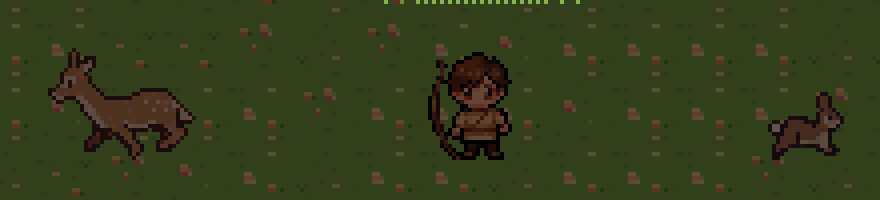
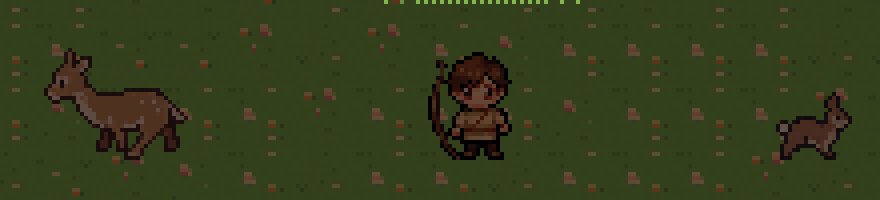
M11 생물 그림 검토 반영: 생물의 시계 = 무리의 시계(세션의 걷기 프레임·고리 깜박임이 늦게 나온 생물도 호스트와 같음), 시체를 드롭 위로(정렬 자리 = 발 칸 아래 변 + 1px), 시트 미리 읽기(CombatView.setup), 빈 시험이던 시체 표시와 빠진 시험(번쩍임·표시 간격·가운데 맞춤·wild_net의 시계), 히트 상자·올가미·막대·걸음 빠르기 README, 다시 찍은 그림 셋 — 검토 지적을 확인해 고치려고 (임시값·전송 형식 v13·골든 해시 그대로)

Changed region(s): [[0.0307, 0.24, 0.2455, 0.81], [0.8591, 0.45, 0.9818, 0.81]]

diff --git a/game/README.md b/game/README.md
@@ -34,7 +34,7 @@
 그 위에 **M11b "희귀 구역 · 포획 · 컬렉션"**(혼자 할 때 먼저. 세션에는 없고(M11c에서 켠다) 전송 형식 v12·월드 해시 그대로)를 더했다: ● game-concept §2·§3·§4(월드마다 독립, 달성 단위 자원·생물·업적, 베네핏 범위 클래스·전체·월드, 희귀 생물 포획·사냥은 아처만, 희귀 재료 → 특정 장비), ○ gameplay-design §3.4(포획)·§3.5(첫 획득 해금). 시드로 정하는 희귀 구역 하나(타일을 고치지 않는다), 그 안에서만 사는 희귀 생물 셋, 아처가 아니면 아무 일도 없는 타격, 올가미로 잡기, 항목 8개와 베네핏 셋(아처 화살 +10%, 전원 방어 +1, 상인 재고 7분), 희귀 재료와 희귀 갑옷, 컬렉션 창(K). 그림은 모두 코드 그림 자리 표시다. [M11b: 희귀 구역 · 포획 · 컬렉션](#m11b-희귀-구역--포획--컬렉션).
 그 위에 **M11c "세션의 사냥 · 포획 · 컬렉션"**을 더했다: M11a·M11b가 혼자 할 때 더한 것을 세션에서 모두 호스트가 정한다(● game-concept §13 호스트 권한). 호스트의 지상 아레나가 무리를 쥐고(자기 난수열, 게임 시계) 모든 공격 길이 호스트 상태로 생물을 친다. 마지막 타격의 클래스가 드롭을 정하고(보통 드롭 편집) 호스트의 올가미 판정은 새 요청 **CAPTURE**(9B: 생물 번호, 호스트가 클래스·올가미·번호·도달·HP·상태를 자기 상태로 검사)다. 생물은 새 묶음(10B 하나, 클라이언트마다 **시야 상자 안의 것만**, 바뀔 때만, 멈추면 키프레임 하나)으로 가서 이단처럼 100ms 뒤를 그리고, 컬렉션은 모든 클라이언트에게 절대값 메시지(6B), 구역과 컬렉션은 지상 스냅샷과 내용 해시에 든다(있을 때만: 골든 해시 그대로). 베네핏은 호스트의 숫자다. 클라이언트는 자기 몸 동작만 예측한다. 전송 형식 **v13**, v12와는 양쪽 방향으로 `refused: version`. 실제 세션 `hunt`·`snare`·`wilds`·`herd`, 한 프로세스 `test_net_wild.gd`, 창 검사 `wild_net`. 자세한 것은 아래 "M11c: 세션의 사냥 · 포획 · 컬렉션".
 그 위에 **M11 검토 반영**(2026-11-07, 아래 "검토 반영 (M11)")을 더했다: 제단이 산 생물 위에 놓이지 않는다(혼자 할 때와 호스트, 클릭·유령·내려놓기. 아니면 그 생물이 발자국 안에 영영 갇혔다), 새 빛에서 걸어 나가는 생물이 오염 칸 위에 멈추지 않는다, 시야 상자가 맵 끝에서 카메라처럼 멈춘다(16:9에서도 화면 안의 생물이 안 보이던 것), 떠난 사람의 슬롯을 받은 사람에게 올가미 줄이 가지 않는다, 번호가 돌아가도 산 생물을 건너뛴다, 스폰이 횃불·주머니 칸을 피한다. 통과만 하던 시험을 고치고 빠진 시험을 더했다. 전송 형식 v13·월드 해시 그대로.
-그 위에 **M11 생물 그림**(2026-11-08, 03-pixel PixelLab 16차 시트로, 브랜치 `art/m11-creatures`)을 더했다: 코드로 그린 생물 다섯(글자 지도)을 `art/creatures/<종류>_v02_rotations.png`·`_walk.png`(= `assets/concept/03-pixel/`의 같은 이름, 서 있음 남·동·북·서 + 걷기 6프레임 × 남·동·북, 서 = 동 반전, 채택 후보)로 바꾸고, 달아날 때 걸음을 빠르게(새 임시값 "M11 생물 그림 달아날 때 걸음"), HP 막대·표시를 종류의 가장 큰 그림 위로, 시체를 남쪽 그림을 눕힌 모습으로, 컬렉션 창의 칸을 40px로 했다. 그림뿐이라 시뮬레이션·히트 상자 등 임시값·월드 데이터·전송 형식 v13·골든 해시·스냅샷 그대로(히트 상자가 그림과 안 맞는 것은 사람 확인). 아래 "M11 생물 그림"
+그 위에 **M11 생물 그림**(2026-11-08, 03-pixel PixelLab 16차 시트로, 브랜치 `art/m11-creatures`)을 더했다: 코드로 그린 생물 다섯(글자 지도)을 `art/creatures/<종류>_v02_rotations.png`·`_walk.png`(= `assets/concept/03-pixel/`의 같은 이름, 서 있음 남·동·북·서 + 걷기 6프레임 × 남·동·북, 서 = 동 반전, 채택 후보)로 바꾸고, 달아날 때 걸음을 빠르게(새 임시값 "M11 생물 그림 달아날 때 걸음"), HP 막대·표시를 종류의 가장 큰 그림 위로, 시체를 남쪽 그림을 눕힌 모습으로, 컬렉션 창의 칸을 40px로 했다. 그림뿐이라 시뮬레이션·히트 상자 등 임시값·월드 데이터·전송 형식 v13·골든 해시·스냅샷 그대로(히트 상자가 그림과 안 맞는 것은 사람 확인). 아래 "M11 생물 그림". 그 위에 **M11 생물 그림 검토 반영**(2026-11-08, 아래 "검토 반영 (M11 생물 그림)")을 더했다: 생물의 시계가 무리의 시계다(세션 호스트에서는 호스트 틱이라 늦게 나온 생물도 호스트와 클라이언트가 같은 걷기 프레임·고리 깜박임을 그린다), 시체가 자기 드롭 위에 눕는다(정렬 자리를 발 칸의 아래 변 + 1px로), 시트를 `CombatView`가 무리 있는 맵에 놓일 때 읽는다(첫 생물이 나오는 프레임의 멈춤), 빈 시험이던 "시체에 표시 없음"과 빠진 시험(번쩍임·표시 간격·가운데 맞춤), 히트 상자·올가미·막대·걸음 빠르기의 README 문장, 03-pixel 기록의 숫자와 남은 흠. 전송 형식 v13·골든 해시 그대로
 
 기준 문서: `docs/game-concept.md` §2 §3 §7 §9.3 §9.7 §10 §11 §12 §13, `docs/gameplay-design.md` §1 §2.1 §2.2 §2.3 §2.4 §2.5 §2.6 §3.0 §3.1 §3.2 §3.4 §3.5 §3.8 §5 (M4b: §2.1 실시간·에임형, §2.6 사망 흐름, §3.0 팔라딘 줄, §3.1 ○ "타일 동기화가 던전 안 인원끼리만", game-concept §13 호스트 권한. M6a: §1 ○ "Tab 인벤토리·제작", §2.2 ? 스킬 킷과 ○ 약초사 정체성 스킬 = 약제 투척, §2.4 ○ 상태이상, §3.0 ● R11 약초사 줄, §3.4 ● 상급, §3.5 ○ 제작·해금, game-concept §9.7 ○ 조제대, §12 ● 작물 셋 R28. M6b: game-concept §13 ● 호스트 권한, §2.6 ● 소생(던진 회복과의 관계), 나머지는 M6a와 같음), `docs/concept-art-brief.md` §4 §5.6 §5.7(M6a: ● R29 물약 색), `assets/concept/03-pixel/prompts.md`(8~12차, 몸 동작. M4a: 8차 피격·사망, 13차 이단과 "M4에 넘길 것"), `assets/concept/04-env/prompts.md`("본 제작", 채집물, M3a: 던전 바닥↔벽 타일, 광맥, 벽 금, 던전 입구, 이단의 제단, 소품. M6a: 조제대 v05, 작은 것 묶음 `items_v04_strip`의 물약).
 M5a 기준 문서: `docs/game-concept.md` §9.3(● 제단 = 빛·안전 반경, 위치·이동 자유), §9.7(○ 농사 줄기, 밭은 빛 안에서만, 시듦과 되살아남, 밭은 남음, R37 슬라이스 줄), §10(톤 이원화), §11, §12(● 작물 셋 R28, ● R37 누가 무엇을 심나), `docs/gameplay-design.md` §1(○ 키), §2.6, §3.0(● R11 약초사·팔라딘 줄), §3.4(● 상급), §3.7(○ 정화: M5b), §3.8(○ 농사, ● R37 줄), `docs/concept-art-brief.md` §5.7(● R28 작물, ● R29 시든 작물·물 준 흙 칸별 덧칠·독초 색), `assets/concept/04-env/prompts.md`(1차 시험 손질: 흙 v03·물 준 흙·흙 변형, `crops_v03`, 씨앗 봉투 #18~#20).
@@ -86,7 +86,7 @@ timeout 300 "$GODOT" --headless --path game --import < /dev/null
 timeout 1800 "$GODOT" --headless --path game --script res://tests/run_all.gd < /dev/null
 ```
 
-- 출력: 첫 줄 `EVENSONG_TESTS start: 27 file(s) in res://tests, ports 24621-24640`(M6a: 19, M6b: 21, M5a: 22, M5b: 24, M5c: 27, M7a: 30, M7b: 32, M7c: 35. 전체가 M7b까지 약 365~400초, M7c에서 약 510초(실제 세션 둘이 약 70초 더함), M7-fix에서 약 457초, M7-rf에서 약 485~505초(파일 수 그대로, checks 29,093), M7-rf 검토 반영 뒤 약 510~525초(checks 29,144), M8a: 37파일(checks 29,707, 약 460초), M8b: 40파일(checks 30,175, 약 535초: 실제 세션 둘이 약 60초 더함), M8 검토: 40파일(checks 30,230, 약 560~590초), M9a: 41파일(checks 30,671, 약 630~645초. 이 기기가 그때 느렸다: 아래 "측정"의 M9a), M9b: 42파일(checks 31,376, 약 560~595초), M9c: 44파일(checks 31,841, 약 590~595초: 실제 세션 `rites`·`chant`가 약 46초 더함), M9 검토: 45파일(checks 31,939, 약 600초), M10a: 47파일(checks 32,833, 약 650초: `net_session`이 홀로 100~117초라 파일 하나 제한 120초에 가깝다. 다른 무거운 일과 같이 돌리지 않는다), M10b: 50파일(실제 세션 `vigil` 약 50초·`litany`+`silent` 약 80초를 더함, 아래 "측정"의 M10b), M10 검토: 50파일(checks 33,843, 약 740~770초), M11a: 52파일(checks 35,472, 약 805~837초), M11b: 55파일(checks 46,594, 약 777~807초), M11c: 58파일(checks 47,635, 약 898~914초: 실제 세션 `hunt`·`snare`·`wilds`·`herd`가 약 105초 더함), M11 생물 그림: 58파일(checks 48,051, 약 920초)이라 위 명령의 `timeout`은 900이면 빠듯하다: 1800으로 돌린다)(이 실행이 쓰는 테스트 포트 묶음, 아래 "테스트 포트"), 파일마다 `PASS test_x.gd (n checks, ms)` 또는 `FAIL ...`과 실패 한 줄씩(`  - `), 측정값(`  * `), 경고(`  ! `). 끝에 `EVENSONG_TESTS done: ...`
+- 출력: 첫 줄 `EVENSONG_TESTS start: 27 file(s) in res://tests, ports 24621-24640`(M6a: 19, M6b: 21, M5a: 22, M5b: 24, M5c: 27, M7a: 30, M7b: 32, M7c: 35. 전체가 M7b까지 약 365~400초, M7c에서 약 510초(실제 세션 둘이 약 70초 더함), M7-fix에서 약 457초, M7-rf에서 약 485~505초(파일 수 그대로, checks 29,093), M7-rf 검토 반영 뒤 약 510~525초(checks 29,144), M8a: 37파일(checks 29,707, 약 460초), M8b: 40파일(checks 30,175, 약 535초: 실제 세션 둘이 약 60초 더함), M8 검토: 40파일(checks 30,230, 약 560~590초), M9a: 41파일(checks 30,671, 약 630~645초. 이 기기가 그때 느렸다: 아래 "측정"의 M9a), M9b: 42파일(checks 31,376, 약 560~595초), M9c: 44파일(checks 31,841, 약 590~595초: 실제 세션 `rites`·`chant`가 약 46초 더함), M9 검토: 45파일(checks 31,939, 약 600초), M10a: 47파일(checks 32,833, 약 650초: `net_session`이 홀로 100~117초라 파일 하나 제한 120초에 가깝다. 다른 무거운 일과 같이 돌리지 않는다), M10b: 50파일(실제 세션 `vigil` 약 50초·`litany`+`silent` 약 80초를 더함, 아래 "측정"의 M10b), M10 검토: 50파일(checks 33,843, 약 740~770초), M11a: 52파일(checks 35,472, 약 805~837초), M11b: 55파일(checks 46,594, 약 777~807초), M11c: 58파일(checks 47,635, 약 898~914초: 실제 세션 `hunt`·`snare`·`wilds`·`herd`가 약 105초 더함), M11 생물 그림: 58파일(checks 48,051, 약 920초), M11 생물 그림 검토: 58파일(checks 48,085, 약 1,060~1,130초: 이 기기가 다른 일로 바빴다, 아래 "측정")이라 위 명령의 `timeout`은 900이면 빠듯하다: 1800으로 돌린다)(이 실행이 쓰는 테스트 포트 묶음, 아래 "테스트 포트"), 파일마다 `PASS test_x.gd (n checks, ms)` 또는 `FAIL ...`과 실패 한 줄씩(`  - `), 측정값(`  * `), 경고(`  ! `). 끝에 `EVENSONG_TESTS done: ...`
 - 종료 코드: 모두 통과 0, 하나라도 실패 1 (불러오기 실패·시간 초과·테스트 파일 없음·시작 중 오류·마지막 파일 뒤 오류도 1)
 - 통과하는 실행에도 오류 묶음이 **8개** 찍힌다. 모두 테스트가 `allow_error()`로 미리 알리고 일부러 낸 것이다 (각 묶음 아래 `at:`·backtrace 줄이 붙는다):
   - `ERROR: Character: unknown class 'wizard'` 1개: `test_actors.gd`가 모르는 클래스 이름을 거부하는지 확인
@@ -3081,16 +3081,16 @@ M11a의 코드 그림 생물 다섯(글자 지도)을 03-pixel **PixelLab 16차*
 
 - 칸마다 발 = 맨 아래 줄, 몸은 칸 가운데 세로줄(art 단계의 `tools/art/creatures.py` 손질). 노드는 발에 서고 칸의 아래 가운데가 발이다(M11a와 같은 규칙, `picture_offset`). 칸 너비가 모두 짝수라 서쪽 반전이 같은 자리에 온다
 - **서 있음** = rotations의 그 방향 칸(`CreatureSim.STAND` = -1), **걸음** = walk의 6프레임(`CreatureSim.frame()`): 서성임은 `WALK_FRAME_TICKS` 7틱(이단·플레이어와 같음, 그대로), **달아날 때는 4틱**(새 임시값 "M11 생물 그림 달아날 때 걸음"). M11a 둘째 프레임의 1px 흔들림은 없앴다(시트가 걷는다). 시트의 서쪽 칸은 동쪽 칸의 반전과 픽셀까지 같고(시험) 그리지 않는다: 서 = 동 반전(Rig `scale.x = -1`, ● R19)
-- 몸은 가져온 시트의 `Sprite2D` 영역(region)이라 걷는 동안 텍스처를 읽지 않는다. 시트는 첫 생물을 만들 때 한 번 Image로 읽어(`_measure`, 상인의 `_head_tops`처럼) 막대 높이·시체·CPU 그림(`image`·`icon`: 시험, 창 그림 검사, 컬렉션 창)에 쓴다
+- 몸은 가져온 시트의 `Sprite2D` 영역(region)이라 걷는 동안 텍스처를 읽지 않는다. 시트는 한 번 Image로 읽어(`_measure`, 상인의 `_head_tops`처럼) 막대 높이·시체·CPU 그림(`image`·`icon`: 시험, 창 그림 검사, 컬렉션 창)에 쓴다. **검토 반영**: 읽는 때는 `CombatView.setup`이 무리 있는 맵에 놓일 때다(`CreatureView.warm`. 혼자 할 때와 호스트는 시작할 때, 클라이언트는 지상에 들어갈 때). 전에는 첫 생물을 만들 때 읽어 창 빌드에서 그 프레임이 2~27ms 멈췄고(검토는 76ms를 잼), 세션 클라이언트에서는 첫 생물 묶음이 온 플레이 중의 프레임이었다
 - **HP 막대·표시**: 종류의 가장 큰 그림(시트 둘의 21칸 모두에서 가장 위 불투명 줄, `height_of`) 위 `BAR_GAP` 2px. 돌아서거나 걸어도 막대가 움직이지 않게 종류마다 하나다(이단처럼). 막대 아래 끝은 발에서 토끼 23, 사슴 37, 여우 26, 은빛 사슴 45, 올빼미 25px 위(M11a 16·27·17·29·19). 독·기절·둔화·거부 표시는 그 위(`MARK_GAP` 그대로)
-- **시체**: 남쪽 서 있는 그림을 시계 방향으로 4분의 1 돌려 옆으로 누운 모습(머리 동쪽, 서쪽을 보던 것은 Rig 반전으로 머리 서쪽), 그린 것만 잘라 아래 가운데를 발에(`corpse_image`, 종류마다 한 번 만든 텍스처). 45틱(그대로). **M11a의 "뒤집기"를 바꾼 이유**: 시트를 뒤집으면 사슴·토끼·여우가 머리로 물구나무서고 은빛 사슴이 뿔로 섰다(옆 모습의 머리·귀·뿔이 몸보다 위라 뒤집으면 땅으로 간다). 동쪽 그림을 돌리면 뒷발로 선 모습이었고, 남쪽 그림을 눕히면 다섯 모두 누운 짐승으로 읽혔다
+- **시체**: 남쪽 서 있는 그림을 시계 방향으로 4분의 1 돌려 옆으로 누운 모습(머리 동쪽, 서쪽을 보던 것은 Rig 반전으로 머리 서쪽), 그린 것만 잘라 아래 가운데를 발에(`corpse_image`, 종류마다 한 번 만든 텍스처). 45틱(그대로). **M11a의 "뒤집기"를 바꾼 이유**: 시트를 뒤집으면 사슴·토끼·여우가 머리로 물구나무서고 은빛 사슴이 뿔로 섰다(옆 모습의 머리·귀·뿔이 몸보다 위라 뒤집으면 땅으로 간다). 동쪽 그림을 돌리면 뒷발로 선 모습이었고, 남쪽 그림을 눕히면 다섯 모두 누운 짐승으로 읽혔다. **검토 반영**: 시체의 노드(y 정렬 자리)는 발 칸의 아래 변 + 1px(`CORPSE_SORT_PX`, `corpse_sort_y`)에 두고 그림은 발에 그대로 둔다. 킬의 드롭은 그 칸의 아래 변에 서므로(`ItemView`) 전에는 45틱 내내 가죽·고기 아이콘이 시체를 거의 덮었다(낮고 넓은 누운 그림이라 M11a의 뒤집은 그림보다 더 가려졌다). 대신 같은 칸 줄에서 시체보다 남쪽에 선 사람은 그 45틱 동안 시체 뒤로 그려진다(아래 알려진 문제 11)
 - 번쩍임, 금빛 고리, 밧줄, 눈금, 거부 ×는 그대로다. 고리 크기는 히트 상자에서 오므로(임시값 그대로) 아래 "잰 것"의 어긋남을 같이 탄다
 - **컬렉션 창**: 생물 칸의 그림은 `CreatureView.icon`(동쪽 서 있는 그림을 그린 것만 잘라)이라 시트를 따른다. 가장 큰 그림(은빛 사슴 37×36)이 칸에 들게 칸을 30 → **40px**로(구현 "M11 생물 그림 컬렉션 칸"), 창이 134×107 → 174×127(480×270의 오른쪽 위, 핫바·가운데 플레이어와 겹치지 않음을 `test_collection.gd`가 본다)
-- 세션: 클라이언트는 묶음의 상태·걷기 비트와 호스트 틱으로 같은 프레임을 고른다(`NetCombat.sample_creature`가 이미 `state`·`walking`·`clock`을 채운다). 바뀐 바이트가 없고 창 그림 검사 `wild_net`이 호스트와 클라이언트의 그림을 픽셀로 비교한다
+- 세션: 클라이언트는 묶음의 상태·걷기 비트와 그리는 호스트 틱으로 프레임을 고른다(`NetCombat.sample_creature`가 `state`·`walking`·`clock`을 채운다). **검토 반영**: 처음에는 호스트의 생물 시계가 "놓인 뒤 지난 틱"이라 호스트 틱 0에 놓인 생물(시작할 때의 무리)만 두 기기의 프레임이 같았고, 다시 나오거나 나중에 놓인 생물은 걷기 프레임과 고리 깜박임이 어긋났다. 이제 생물의 시계는 무리의 시계다(`Creatures.spawn`이 무리의 시계로 놓고 무리와 함께 센다. 세션 호스트의 무리는 호스트 틱을 센다: `test_net_wild.gd`가 본다). 바뀐 바이트가 없다. 창 그림 검사 `wild_net`은 호스트 무리를 묶음의 틱 7792(걷기·달아남 프레임과 고리 깜박임이 모두 시계 0과 다른 틱)에 두고 생물의 시계를 무리에서 받는다(전에는 생물마다 묶음의 틱을 손으로 넣어 어긋남을 가렸다). 달아나는 생물 하나를 더해 호스트와 클라이언트의 그림을 픽셀로 비교한다(생물이 제 시계를 쓰면 548픽셀 어긋남)
 
 ### 바꾼 파일
 
-`actors/creature_view.gd`(글자 지도 `MAPS`·`STEPS`·`PALETTE`와 `texture`·`frame_size`를 지우고 시트로. `MAPS`를 쓰던 곳은 시험·창 그림 검사·컬렉션 창뿐이었다), `combat/creature_sim.gd`(`frame()`: 서 있으면 `STAND`, 6프레임, 달아날 때 빠름), `core/config.gd`(`CREATURE_FLEE_FRAME_TICKS`, `CREATURES` 주석), `ui/collection_panel.gd`(`icon`, `CELL` 40), `art/creatures/` 열 장 + `.import`, 시험 셋, `tools/check_render.gd`의 `creatures`·`capture_marks`·`collection_panel`
+`actors/creature_view.gd`(글자 지도 `MAPS`·`STEPS`·`PALETTE`와 `texture`·`frame_size`를 지우고 시트로. `MAPS`를 쓰던 곳은 시험·창 그림 검사·컬렉션 창뿐이었다), `combat/creature_sim.gd`(`frame()`: 서 있으면 `STAND`, 6프레임, 달아날 때 빠름), `core/config.gd`(`CREATURE_FLEE_FRAME_TICKS`, `CREATURES` 주석), `ui/collection_panel.gd`(`icon`, `CELL` 40), `art/creatures/` 열 장 + `.import`, 시험 셋, `tools/check_render.gd`의 `creatures`·`capture_marks`·`collection_panel`. **검토 반영**: `combat/creatures.gd`(`spawn`: 생물의 시계 = 무리의 시계), `combat/combat_view.gd`(`setup`: `CreatureView.warm`), `actors/creature_view.gd`(`warm`, 시체의 정렬 자리 `corpse_sort_y`·`CORPSE_SORT_PX`), `combat/creature_sim.gd`·`core/config.gd`(주석), `test_creatures.gd`·`test_net_wild.gd`, `tools/check_render.gd`의 `wild_net`
 
 ### 잰 것 (그림 대 히트 상자, 플레이어)
 
@@ -3103,13 +3103,15 @@ M11a의 코드 그림 생물 다섯(글자 지도)을 03-pixel **PixelLab 16차*
 | `ash_owl` | 19 / 22 / 21 (22) | 16 | 12 / 11 / 12 | 16 |
 
 - 플레이어(기본 몸 idle)는 남 27, 동·북 29px이다. 토끼는 플레이어의 약 70%, 여우·올빼미 약 75~80%, 사슴은 앞모습이 플레이어쯤이고 뒷모습(귀)이 더 크며, 은빛 사슴은 뿔까지 플레이어보다 크다(34~42)
-- **히트 상자는 바꾸지 않았다**(`Config.CREATURES` `hit_radius_px`·`hit_height_px`, 임시값 "M11a 생물 표", M11a 글자 지도에서 잰 값). 그래서 그림과 맞지 않는다: 종류마다 가장 큰 그림이 상자보다 6~17px 높고(은빛 사슴의 뿔은 상자 위 9~17px, 토끼의 귀 6~8px. 방향마다는 사슴 앞모습이 25 대 24로 가장 가깝다), 옆 모습은 상자보다 길고(19 대 16, 35 대 24, 27 대 20, 37 대 24), 올빼미는 어느 방향에서나 상자(16)보다 좁다(10~12). 화살이 그린 머리·귀·뿔·꼬리를 지나가도 맞지 않을 수 있고, 올빼미 옆 빈 곳을 지나는 화살이 맞을 수 있다. 예: 수평으로 쏜 화살(그려진 높이 14px, M11a "사냥")은 이제 토끼의 그린 머리·귀(14~20px)를 가로지르지만 상자(12px) 위라 맞지 않는다(M11a에서는 머리 위로 지나가 보였다). 그린 화살은 커서를 지나가므로 커서를 몸통(발에서 12px 안)에 두면 맞고, 귀를 겨누면 빗나간다(봇 `aimprey`는 상자의 가운데를 겨눠 그대로 맞는다). 시험은 "상자가 그림보다 높지 않다"만 지키고 수치를 메모(`  * `)로 찍는다(`test_creatures.gd`). 새 값은 사람이 정한다(아래 "사람이 볼 것" 3)
+- **히트 상자는 바꾸지 않았다**(`Config.CREATURES` `hit_radius_px`·`hit_height_px`, 임시값 "M11a 생물 표", M11a 글자 지도에서 잰 값). 그래서 그림과 맞지 않는다: 종류마다 가장 큰 그림이 상자보다 6~17px 높고(은빛 사슴의 뿔은 상자 위 9~17px, 토끼의 귀 6~8px. 방향마다는 사슴 앞모습이 25 대 24로 가장 가깝다), 옆 모습은 상자보다 길고(19 대 16, 35 대 24, 27 대 20, 37 대 24), 올빼미는 어느 방향에서나 상자(16)보다 좁다(10~12). 화살이 그린 머리·귀·뿔·꼬리를 지나가도 맞지 않을 수 있고, 올빼미 옆 빈 곳을 지나는 화살이 맞을 수 있다. 예: 수평으로 쏜 화살(그려진 높이 14px, M11a "사냥")은 이제 토끼의 그린 머리·귀(14~20px)를 가로지르지만 상자(12px) 위라 맞지 않는다(M11a에서는 머리 위로 지나가 보였다). 그린 화살은 커서를 지나가므로 커서를 몸통(발에서 12px 안)에 두면 맞고, 귀를 겨누면 빗나간다(봇 `aimprey`는 상자의 가운데를 겨눠 그대로 맞는다). 시험은 "상자가 그림보다 높지 않다"만 지키고 수치를 메모(`  * `)로 찍는다(`test_creatures.gd`). 새 값은 사람이 정한다(아래 "사람이 볼 것" 3). **검토 반영**: 올가미 클릭(`Capture.target_at`: 상자 가운데(발에서 높이의 절반 위)에서 max(반경, 높이/2) + `CAPTURE_GRAB_PX` 6px 안)과 금빛 고리도 같은 상자에서 온다. 그래서 잡을 수 있는 은빛 사슴의 뿔 끝을 누르면 `nothing there`로 거부되고(대상이 없어 거부 ×도 안 뜬다), 뿔 사이 빈 곳(발에서 약 29px)을 누르면 잡힌다(검토가 창에서 잼). 서 있는 그림의 불투명 픽셀 중 쏘는 상자 밖: 토끼 남·북 34%, 여우 동·북 29~30%, 은빛 사슴 동 41%·북 42%, 사슴 동·북 26%. 올가미 잡기 원 밖: 은빛 사슴 북 25%·남 13%·동 12%, 사슴 북 10%(나머지 0~1%). M11a의 규칙 시험(상자 높이 = 가장 큰 그림 ±2, 너비 ≤ 가장 넓은 그림 + 2)은 다섯 모두 맞지 않아 꺼 두었다: 새 값이 정해지면 올가미 클릭이 그린 몸에 닿는지 보는 시험과 함께 되살린다
 
 ### 새 상수
 
 - 임시값 "M11 생물 그림 달아날 때 걸음": `CREATURE_FLEE_FRAME_TICKS` 4
 - 구현 "M11 생물 그림 시트": `CreatureView.CELLS`·`ROTATIONS`·`WALKS`·`ROTATION_CELLS` 4, `CreatureSim.WALK_FRAMES` 6·`STAND` -1, `corpse_image`
 - 구현 "M11 생물 그림 컬렉션 칸": `CollectionPanel.CELL` 30 → 40
+- 구현 "M11 생물 그림 시체 정렬"(검토 반영): `CreatureView.CORPSE_SORT_PX` 1, `corpse_sort_y`
+- 구현 "M11 생물 그림 미리 읽기"(검토 반영): `CreatureView.warm`(`CombatView.setup`)
 
 ### 시험 (M11 생물 그림)
 
@@ -3118,9 +3120,10 @@ timeout 300 "$GODOT" --headless --path game --script res://tests/run_all.gd -- -
 timeout 180 "$GODOT" --path game --script res://tools/check_render.gd -- --only=creatures,capture_marks,collection_panel,wild_net < /dev/null   # 창, 약 4초
 ```
 
-- `test_creatures.gd` (1,328 → 1,626 checks): 글자 지도 시험 대신 **시트**(종류마다 칸 크기, 두 시트의 크기(4칸 / 6 × 3칸), PNG에서 따로 자른 21칸 = `image()`·`region()`, 칸마다 그림이 있음, 서 있음·걷기의 발이 맨 아래 줄(걷기 프레임 하나하나는 2px 안), 프레임마다 다음과 다름(돌고 이어짐), 시트의 서쪽 = 동쪽 반전, 높이 = 21칸 중 가장 큼, 시체 = 남쪽 그림을 눕힘·아래 가운데, 창의 그림 = 동쪽 서 있음을 잘라서, 상자 ≤ 그림 높이와 메모, 토끼 < 사슴, 토끼 < 플레이어, 은빛 사슴이 가장 큼)와 **그림**(서 있음 = rotations 칸·아래 가운데, 걷기 6프레임이 7틱마다 돌고 이어짐·흔들림 없음, 달아날 때 4틱마다, 걸으며 서쪽 반전·북쪽 줄, 멈추면 서 있는 그림, 막대가 다섯 종류 모두 가장 큰 그림 위 2px, 표시가 그림과 막대 위, 시체 네 방향(반전 포함), 다시 살면 서 있는 칸)
+- `test_creatures.gd` (1,328 → 1,626 checks, 검토 반영 뒤 1,658): 글자 지도 시험 대신 **시트**(종류마다 칸 크기, 두 시트의 크기(4칸 / 6 × 3칸), PNG에서 따로 자른 21칸 = `image()`·`region()`, 칸마다 그림이 있음, 서 있음·걷기의 발이 맨 아래 줄(걷기 프레임 하나하나는 2px 안), 프레임마다 다음과 다름(돌고 이어짐), 시트의 서쪽 = 동쪽 반전, 높이 = 21칸 중 가장 큼, 시체 = 남쪽 그림을 눕힘·아래 가운데, 창의 그림 = 동쪽 서 있음을 잘라서, 상자 ≤ 그림 높이와 메모, 토끼 < 사슴, 토끼 < 플레이어, 은빛 사슴이 가장 큼)와 **그림**(서 있음 = rotations 칸·아래 가운데, 걷기 6프레임이 7틱마다 돌고 이어짐·흔들림 없음, 달아날 때 4틱마다, 걸으며 서쪽 반전·북쪽 줄, 멈추면 서 있는 그림, 막대가 다섯 종류 모두 가장 큰 그림 위 2px, 표시가 그림과 막대 위, 시체 네 방향(반전 포함), 다시 살면 서 있는 칸). **검토 반영**: 다시 나온 생물과 늦게 놓인 생물의 시계 = 무리의 시계(나온 생물은 시계가 아니라 번호로 찾음), 몸이 가운데 맞춤이 아님, 달아나며 번쩍임, 표시와 막대 사이 `MARK_GAP`(닿지 않음), 거부 ×, **독·기절·둔화·거부 ×를 지닌 채 죽은 시체에 표시 없음**(전에는 죽기 전에 효과를 지워서 `poisoned()`·`stunned()`에서 `alive()`를 빼도 통과하던 빈 시험이었다. main의 시험은 잡았다), 시체의 노드가 발 칸 아래 변 + 1px이고 킬의 드롭보다 아래, 다시 살면 노드가 발로
+- `test_net_wild.gd` (509 → 511, 검토 반영): 호스트 무리의 시계 = 호스트 틱, 늦게 놓인 생물까지 모든 생물의 시계 = 호스트 틱
 - `test_actors.gd` (1,750 → 1,780): 그림 사본 105 → 115(md5)와 크기 열
-- 창 그림 검사 `creatures`: 다섯 × 네 방향 × (서 있음 + 걷기 6) = 140화면을 PNG에서 따로 자른 칸과 픽셀까지, 시체 다섯 × 동·서, 번쩍임, 막대(PNG에서 잰 높이), 기절 표시, 저녁. `capture_marks`: 몸은 시트의 동쪽 칸. 밧줄이 고리 위에 그려지는 것을 기대 그림에 바로 적었다(새 여우의 다리 사이로 (-4, -4)의 고리 점과 밧줄 점이 겹친 곳이 드러났다. 예전 여우는 몸이 덮었다: 시험의 순서 잘못, 코드는 그대로). `collection_panel`: 이 검사에 적은 배치 174×127, 칸 40px 2px 간격, 베네핏 54px, 그림은 PNG에서 잘라. `wild_net`은 `CombatView`로 그려 그대로 따른다
+- 창 그림 검사 `creatures`: 다섯 × 네 방향 × (서 있음 + 걷기 6) = 140화면을 PNG에서 따로 자른 칸과 픽셀까지, 시체 다섯 × 동·서, 번쩍임, 막대(PNG에서 잰 높이), 기절 표시, 저녁. `capture_marks`: 몸은 시트의 동쪽 칸. 밧줄이 고리 위에 그려지는 것을 기대 그림에 바로 적었다(새 여우의 다리 사이로 (-4, -4)의 고리 점과 밧줄 점이 겹친 곳이 드러났다. 예전 여우는 몸이 덮었다: 시험의 순서 잘못, 코드는 그대로). `collection_panel`: 이 검사에 적은 배치 174×127, 칸 40px 2px 간격, 베네핏 54px, 그림은 PNG에서 잘라. `wild_net`은 `CombatView`로 그려 그대로 따른다(검토 반영: 생물의 시계를 무리에서 받고 달아나는 생물을 더함, 위 "세션")
 - 바꾼 기존 시험(그림을 일부러 바꿔서): `test_creatures.gd`의 `_check_maps`(→ `_check_sheets`)와 `_check_view`, `test_actors.gd`의 그림 표. `test_collection.gd`의 "그림이 칸에 든다"(`CELL - 2`)는 그대로이고 칸 40으로 통과한다(30이면 사슴·은빛 사슴이 넘친다)
 
 ### 스크린샷 (M11 생물 그림)
@@ -3157,21 +3160,39 @@ big('m11_art_zone_run.png', 'm11_art_zone_run_4x.png', 4, (180, 80, 390, 215))
 ```
 
 - 두 번 찍어 바이트까지 같았다(`m11_art_hunt.png`·`m11_art_zone.png`, 내보낸 exe로 찍어도 같음). 달리는 판(`_run`)은 찍을 때마다 물리 틱 하나쯤 어긋날 수 있다(아래 "측정"의 M11 생물 그림)
+- **검토 반영에서 다시 찍음**: 생물의 시계가 무리의 시계가 되어 나중에 놓인 생물의 걷기 프레임이 달라졌다. `m11_hurt.png`(+ `_4x`, 세 번 찍어 같음: 달아나는 사슴의 프레임), `m11_art_hunt_run.png`·`m11_art_zone_run.png`(+ `_4x`, 세 번 중 두 번 같음). `m11_art_hunt`·`m11_art_zone`·`m11_hunt`·`m11b_capture`는 같은 명령으로 그대로 나왔다(`m11b_capture`는 기기가 바쁠 때 한 번 몇 틱 늦게 찍혀 여우가 이미 잡힌 그림이 나왔고, 다시 두 번은 HUD 2픽셀 말고 같아 커밋한 것을 두었다). 긴 실행 `m11b_panel`·`m11b_end`와 두 창 `m11c_*`는 다시 찍지 않았다. 시체가 드롭 위에 눕는 것은 `m11_hurt`의 명령을 85프레임에서 찍어 확인했다(토끼 시체가 온전한 가죽 위, 예전 정렬로 찍으면 가죽이 시체 가운데를 덮음. 내보낸 exe도 같음)
 - M11의 예전 그림 아홉(`m11_hunt`·`m11_hurt`·`m11_hurt_4x`·`m11b_capture`·`m11b_capture_4x`·`m11b_panel`·`m11b_end`·`m11c_host`·`m11c_client`)도 위 "스크린샷"의 같은 명령으로 다시 찍었다(코드 그림이 시트로 바뀌어서). 다른 것: `m11_hurt_4x`는 사슴이 커져 막대가 잘리지 않게 (60, 80)부터 340×120으로 자른다
-- **1·2·4배로 본 것** (판단): 저녁 1배에서 다섯이 색과 윤곽으로 갈린다. **토끼와 등불 여우는 구별된다**: 토끼는 어두운 갈색에 긴 귀, 여우는 녹슨 주황에 흰 가슴·흰 꼬리 끝(둘은 보통 다른 곳에 산다: 토끼는 빛 둘레, 여우는 구역). **올빼미는 저녁에 가장 잘 보인다**(흰 몸이 어두운 풀 위의 옅은 회색). 은빛 사슴은 1배에서도 뿔로 바로 읽히고, 사슴은 등의 흰 점까지 2배에서 보인다. **크기**: 사슴(앞 25~27)은 플레이어와 나란하고 은빛 사슴은 플레이어보다 크다. 토끼(20)·올빼미(22)는 플레이어 곁에서 실제보다 큰 귀여운 비율이다(아래 알려진 문제 10). 달아나는 옆 모습은 4틱 걸음으로 다리가 미끄러지지 않는다. 금빛 고리는 낮에는 풀의 노란 점과 섞여 4배에서도 찾아야 보이고, 저녁에는 unshaded라 읽힌다(M11 검토 그대로)
+- **1·2·4배로 본 것** (판단): 저녁 1배에서 다섯이 색과 윤곽으로 갈린다. **토끼와 등불 여우는 구별된다**: 토끼는 어두운 갈색에 긴 귀, 여우는 녹슨 주황에 흰 가슴·흰 꼬리 끝(둘은 보통 다른 곳에 산다: 토끼는 빛 둘레, 여우는 구역). **올빼미는 저녁에 가장 잘 보인다**(흰 몸이 어두운 풀 위의 옅은 회색). 은빛 사슴은 1배에서도 뿔로 바로 읽히고, 사슴은 등의 흰 점까지 2배에서 보인다. **크기**: 사슴(앞 25~27)은 플레이어와 나란하고 은빛 사슴은 플레이어보다 크다. 토끼(20)·올빼미(22)는 플레이어 곁에서 실제보다 큰 귀여운 비율이다(아래 알려진 문제 10). 달아나는 옆 모습은 4틱 걸음에서 사슴·은빛 사슴만 한 바퀴에 몸길이쯤 가서 다리가 미끄러지지 않는다(검토 반영: 토끼·여우·올빼미는 아래 알려진 문제 12). 금빛 고리는 낮에는 풀의 노란 점과 섞여 4배에서도 찾아야 보이고, 저녁에는 unshaded라 읽힌다(M11 검토 그대로)
 
 ### 알려진 문제 (M11 생물 그림)
 
 1. **올빼미가 하얗다**(눈올빼미: 호박색 눈, 노란 다리). 이름 "재 올빼미"(ash owl, 잿빛을 주문함)와 색이 맞지 않는다. 색은 손대지 않았다(art 단계 지시 그대로)
-2. **히트 상자가 그림과 맞지 않는다**(위 "잰 것"). 임시값이라 바꾸지 않았다
+2. **히트 상자가 그림과 맞지 않는다**(위 "잰 것"). 임시값이라 바꾸지 않았다. 올가미 클릭과 금빛 고리도 같은 상자라 뿔·귀·머리를 누르면 `nothing there`일 수 있다(검토 반영)
 3. 여우의 꼬리 끝이 크림색이라 "등불"이 보이지 않는다(art 단계: 색 입히기는 무료 손질로 가능)
-4. 걷기: 토끼 남·북은 윤곽이 거의 안 움직여 미끄러지듯 보인다(안쪽 픽셀만 약 100개 바뀜). 사슴 동쪽은 5 → 0 프레임에서 엉덩이가 2~4px 내려가 덜컥한다. 올빼미 남쪽은 아래 몸이 좌우로 1~2px 흔들린다(뒤뚱). 올빼미 북쪽 뒷모습은 흰 덩어리이고, 서 있다가 북쪽으로 걸으면 다리가 꼬리에 가려 사라진다(프레임 3은 art 단계가 손으로 만든 것). 올빼미 동쪽 걷기의 눈(호박색 위 검은 눈동자)이 서 있는 그림(갈색 눈동자)과 조금 다르다
+4. 걷기: 토끼 남·북은 윤곽이 거의 안 움직여 미끄러지듯 보인다(안쪽 픽셀만 약 100개 바뀜). 사슴 동쪽은 5 → 0 프레임에서 엉덩이가 2~4px 내려가 덜컥한다. 올빼미 남쪽은 아래 몸이 좌우로 1~2px 흔들린다(뒤뚱). 올빼미 북쪽 뒷모습은 흰 덩어리이고, 서 있다가 북쪽으로 걸으면 다리가 꼬리에 가려 사라진다(프레임 3은 art 단계가 손으로 만든 것). 올빼미 동쪽 걷기의 눈(호박색 위 검은 눈동자)이 서 있는 그림(갈색 눈동자)과 조금 다르다. (검토 반영, art 단계 기록) 여우 남쪽도 토끼처럼 윤곽이 거의 안 움직인다(0~5px). 북쪽 걷기는 사슴·은빛 사슴·올빼미가 0~2번이 거의 같은 자세라 3~5번에서만 움직이고(템플릿), 여우 북쪽 꼬리는 고르지 않게 흔들린다. 여우 남쪽 그림의 두 다리·얼굴 옆에 채도 높은 빨간 테 선이 있다
 5. 남쪽 걷기 몇 프레임은 발이 바닥에서 1~2px 뜨고(디딤발을 깊이로 낮게 그림), 여우 동쪽은 몸 전체가 1px 뛴다
 6. 은빛 사슴의 외곽선은 art 단계의 스크립트가 그렸다(생성 그림에 없었다): 1px 뿔이 3px 어두운 선이 되어 1배에서 "옅은 상아색"보다 어둡다
-7. 막대는 종류마다 하나라 옆을 보는 사슴(29px)·은빛 사슴(36px)은 막대가 그림보다 5~6px 더 떠 있다(북쪽 그림이 가장 크다)
+7. 막대는 종류마다 하나(가장 큰 칸: 사슴·은빛 사슴은 북쪽 그림) 위라 다른 방향에서는 더 떠 있다. 가장 많이 뜨는 것은 기본인 **앞모습(남)**이다: 사슴 9px, 은빛 사슴 8px 더(2px 틈과 합쳐 막대와 그림 사이 빈 줄 11·10). 옆 모습은 사슴 5, 은빛 사슴 6px 더, 토끼·여우·올빼미는 어느 방향이든 0~3px. 생물이 모여 있으면 은빛 사슴의 막대가 이웃 생물에 더 가까워 보일 수 있다(검토 반영: 처음 적은 "옆 모습이 5~6px"를 고침)
 8. 달아날 때 4틱은 `state == FLEE`일 때만이다. 옮겨 온 빛에서 걸어 나가는 생물(`_walk_clear`)은 달리기 속도지만 상태가 서성임·쉼이면 7틱으로 걷는다(드물다)
 9. 시체는 어느 쪽을 보고 죽었든 남쪽 그림을 눕힌 것이다(머리 동쪽, 서쪽을 보던 것만 머리 서쪽). 따로 그린 쓰러짐 그림은 없다
 10. 토끼(20px)·올빼미(22px)는 플레이어(27~29px) 곁에서 실제 짐승보다 크다. 사냥감과 희귀 생물의 크기 차이는 사슴·은빛 사슴이 만든다
+11. (검토 반영) 시체는 드롭 위에 눕게 정렬 자리를 발 칸의 아래 변 + 1px로 내렸다. 그래서 같은 칸 줄에서 시체보다 남쪽에(발이 그 칸 안에) 선 사람은 45틱(0.75초) 동안 시체 뒤로 그려진다(가까이에서 칼로 남쪽에서 잡을 때). 드롭이 이웃 칸에 떨어지면(발 칸에 채집물·드롭·문간이 있을 때) 그 아래 칸의 드롭은 여전히 시체를 덮을 수 있다
+12. (검토 반영) 걸음 틱이 종류마다 하나다. 달아날 때 한 바퀴(4틱 × 6 = 0.4초)에 토끼 45px·사슴 38px·여우 50px·은빛 사슴 45px·올빼미 51px를 가는데 옆 모습 몸길이는 19·35~37·27~29·37~39·11~12px라 사슴·은빛 사슴만 맞고 토끼·여우·올빼미는 미끄러지듯 빠르다. 서성일 때(7틱 × 6 = 0.7초)는 토끼 20px·사슴 17px·여우 21px·은빛 사슴 18px·올빼미 20px라 사슴·은빛 사슴은 몸길이의 절반이고 다리가 땅보다 빠르다. 종류마다 걸음 틱(서성임·달아남)을 임시값으로 둘지는 사람이 정한다(아래 "사람이 볼 것" 5)
+
+### 검토 반영 (M11 생물 그림)
+
+검토 셋(art 기록, 게임 코드, 창으로 본 게임)의 지적을 하나씩 다시 재 보고 고쳤다. PixelLab·힉스필드는 부르지 않았다(승인 25회 중 20회 그대로, 5회 남음).
+
+- **세션의 걷기 프레임과 고리 깜박임**(고침): 위 "시트"의 "세션". 생물의 시계 = 무리의 시계(`Creatures.spawn`). 시험: 다시 나온 생물·늦게 놓인 생물(`test_creatures.gd`), 실제 호스트 리그에서 모든 생물의 시계 = 호스트 틱(`test_net_wild.gd`), 창 검사 `wild_net`(호스트 무리를 묶음의 틱에, 생물이 제 시계를 쓰면 548픽셀 어긋남을 확인)
+- **시체 위 표시 시험이 비어 있었다**(고침): 효과를 지닌 채 죽인다. 변이 `poisoned()`·`stunned()`에서 `alive()` 빼기, `refused_ticks`에서 `alive()` 빼기가 이제 `test_creatures.gd`에서 잡힌다
+- **창 검사만 잡던 그림 변이**(고침): `MARK_GAP` 0(표시가 막대에 닿음), `body.centered`, 걷는 동안 번쩍임 꺼짐, 시체의 거부 ×를 머리 없는 시험으로도 잡는다(변이 넷 모두 `test_creatures.gd`에서 실패 확인)
+- **첫 생물의 멈춤**(고침): 위 "시트"의 미리 읽기. 창 빌드에서 첫 `CreatureView.new()` 2~27ms, 둘째부터 14~21µs(이 기기에서 잼, 검토는 76ms)
+- **시체가 드롭에 가려짐**(고침): 위 "시트"의 시체. 알려진 문제 11
+- **히트 상자·올가미 클릭**(문서): 값은 임시값이라 사람이 정한다. 위 "잰 것"에 올가미 클릭과 고리, 상자 밖 픽셀 비율을 더하고, 시험 주석에 M11a 규칙 시험을 되살릴 조건을 적었다
+- **막대 자리**(문서): 알려진 문제 7을 잰 값대로 고쳤다(앞모습이 가장 많이 뜬다). 방향마다 막대를 옮길지는 사람이 고를 일이라 그대로
+- **걸음 빠르기**(문서): 알려진 문제 12. 종류마다 걸음 틱은 새 임시값이 되므로 만들지 않았다
+- **art 기록**(`assets/concept/03-pixel/prompts.md` "PixelLab 16차", `art/m11-creatures`의 새 커밋): 여우 남쪽 걷기의 미끄러짐과 빨간 테 선, 북쪽 걷기의 리듬을 남은 흠과 다시 뽑기 후보에 더하고, 칸 문장(토끼·여우·올빼미는 4px 여유: 칸은 바꾸지 않음), 무게중심(±0.85px, 범위 1.1px), 외곽선 비율(프레임마다), 색 수(9~30), 가장 큰 키(올빼미는 동·북 같음)를 고쳤다. 그림과 스크립트는 그대로이고 손질을 다시 돌려 결과 12개가 같은 md5
+- 고치지 않음: `net_session`의 `stall/c2: prediction was reconciled`는 타이밍에 따라 흔들린다(검토가 main에서도 3번 중 2번 재현, 이 PR 밖). 이단(`HereticSim.clock`)도 "놓인 뒤 지난 틱" 대 클라이언트의 호스트 틱이라 세션에서 걷기·숨쉬기 프레임이 어긋날 수 있다(M4부터, 생물 그림 밖이라 그대로)
 
 ### 사람이 볼 것 (M11 생물 그림)
 
@@ -3180,12 +3201,12 @@ big('m11_art_zone_run.png', 'm11_art_zone_run_4x.png', 4, (180, 80, 390, 215))
 "$GODOT" --path game -- --class=archer --test-select=8 --test-at-zone=0,0 --test-no-spawns --give=snare:4   # 희귀 구역 한가운데: 자연의 희귀 셋
 ```
 
-1. **그림 채택**: 다섯 모두 채택할지, 다시 뽑을 것이 있는지(승인한 25회 중 5회가 남았다. art 단계의 후보: 토끼 남·북 걷기, 올빼미 북·남, 여우 꼬리)
+1. **그림 채택**: 다섯 모두 채택할지, 다시 뽑을 것이 있는지(승인한 25회 중 5회가 남았다. art 단계의 후보: 토끼 남·북 걷기, 여우 남쪽 걷기(검토 반영), 올빼미 북·남, 여우 꼬리)
 2. **올빼미의 색과 이름**: 하얀 눈올빼미로 두고 이름을 바꿀지, 무료 손질로 잿빛을 입힐지, 다시 뽑을지
-3. **히트 상자 새 값**(임시값 "M11a 생물 표"의 `hit_radius_px`·`hit_height_px`, 위 "잰 것"의 표): 그림에 맞출지(M11a 규칙은 "높이 = 가장 큰 그림 ±2, 너비 ≤ 그림"), 은빛 사슴의 뿔을 상자에 넣을지. 바꾸면 `test_creatures.gd`에 M11a의 규칙 시험을 되살린다
+3. **히트 상자 새 값**(임시값 "M11a 생물 표"의 `hit_radius_px`·`hit_height_px`, 위 "잰 것"의 표): 그림에 맞출지(M11a 규칙은 "높이 = 가장 큰 그림 ±2, 너비 ≤ 그림"), 은빛 사슴의 뿔을 상자에 넣을지. 바꾸면 `test_creatures.gd`에 M11a의 규칙 시험을 되살린다. 올가미 클릭(`Capture.target_at`)과 금빛 고리도 이 상자를 따른다: 뿔·귀를 눌러도 잡히게 할지(검토 반영)
 4. 저녁 1배에서 토끼와 등불 여우가 구별되는지, 올빼미가 보이는지, 포획 고리가 읽히는지("혼자 M11 해 보기" 6을 이 그림으로 다시)
-5. 걸음 빠르기: 서성임 7틱(0.12초, 이단과 같음), 달아남 4틱(새 임시값). art 단계는 서성임 0.15초를 제안했다
-6. 누운 시체(남쪽 그림을 눕힘)와 막대 자리(종류마다 하나)가 괜찮은지
+5. 걸음 빠르기: 서성임 7틱(0.12초, 이단과 같음), 달아남 4틱(새 임시값). art 단계는 서성임 0.15초를 제안했다. 종류마다 걸음 틱을 따로 둘지(알려진 문제 12: 달아날 때 토끼·여우·올빼미는 미끄러지듯 빠르고, 서성일 때 사슴·은빛 사슴은 다리가 땅보다 빠르다). 북쪽 걷기의 리듬(0~2번이 거의 같음)이 끊겨 보이는지(검토 반영)
+6. 누운 시체(남쪽 그림을 눕힘, 45틱 = 0.75초)와 막대 자리(종류마다 하나: 앞모습에서 사슴 9·은빛 사슴 8px 더 뜸)가 괜찮은지. 시체는 이제 드롭 위에 눕는다. 같은 칸 줄의 남쪽에 선 사람이 그동안 시체 뒤로 그려지는 것이 괜찮은지(알려진 문제 11, 검토 반영)
 7. 컬렉션 창이 커진 것(칸 40px, 174×127)
 
 ## 빛과 제단 (G2)
@@ -3600,7 +3621,7 @@ func run() -> Array[String]:
 | M11a 막는 몸 | `Main._other_bodies`·`_on_place_requested`·`altar_bodies`·`creatures_on`, `SessionHost._altar_place`·`_set_altar_down`, `AltarMove.covers_a_body` | 생물도 이단처럼 "거기 서 있는 몸": 막는 조각·설치물을 그 위에 놓지 못하고 문이 닫히지 않는다. **M11 검토: 제단의 발자국도(클릭·유령·내려놓기, 혼자 할 때와 호스트. 아니면 그 아래 생물이 영영 갇힌다)**. 상인은 넣지 않았다(한 칸이라 걸어 나간다) | 문서에 없음 |
 | M11a 물 | (상수 없음) | 슬라이스의 지상에 물이 없어 생물의 물 규칙은 해당 없음 | 지시의 "water" |
 | M11a 그림 자리 표시 (**생물은 M11 생물 그림에서 바뀜**) | ~~`CreatureView`~~, `ItemIcons` `meat` | ~~생물 다섯과~~ 고기는 코드 그림. 생물 다섯 = **03-pixel 16차 시트**(M11 생물 그림, 사람이 승인한 PixelLab 생성 20회: 서 있음 + 걷기 6프레임 × 남·동·북, 서 = 동 반전. **채택 후보, 사람 확인 전**) | 생물 그림은 `assets/concept/03-pixel/prompts.md` "PixelLab 16차" |
-| M11 생물 그림 달아날 때 걸음 | `CREATURE_FLEE_FRAME_TICKS` 4, `CreatureSim.frame` | 달아나는 생물(`state == FLEE`)의 걷기 6프레임이 4틱마다(서성임은 `WALK_FRAME_TICKS` 7 그대로). 한 바퀴 0.4초, 사슴이 한 걸음에 몸길이쯤. 그림뿐 | 문서에 없음. art 단계는 서성임 0.15초를 제안 |
+| M11 생물 그림 달아날 때 걸음 | `CREATURE_FLEE_FRAME_TICKS` 4, `CreatureSim.frame` | 달아나는 생물(`state == FLEE`)의 걷기 6프레임이 4틱마다(서성임은 `WALK_FRAME_TICKS` 7 그대로). 한 바퀴 0.4초, 사슴·은빛 사슴이 한 바퀴에 몸길이쯤(토끼·여우·올빼미는 몸길이의 2~4배: 알려진 문제 12). 그림뿐 | 문서에 없음. art 단계는 서성임 0.15초를 제안 |
 | M11 생물 그림 히트 상자 (바꾸지 않음) | `CREATURES` `hit_radius_px`·`hit_height_px`(위 "M11a 생물 표") | M11a의 글자 지도에서 잰 값 그대로. 시트의 가장 큰 그림이 6~17px 더 높고 옆 모습이 더 길고 올빼미는 더 좁다(위 "M11 생물 그림"의 "잰 것"). **새 값은 사람이 정한다** | 지시: 임시값을 바꾸지 않고 보고 |
 | ~~M11a 세션~~ (**M11c에서 켬**, 아래 "M11c 세션") | `Arena.herd` null(호스트), 상점 13항목, 고기는 세션에서도 먹음 | 생물은 M11c. 그때까지 세션의 공격 길은 M10 그대로 | M11a 지시 |
 | M11b 구역 자리 | `RARE_ZONE_RADIUS_TILES` 9, `RARE_ZONE_MIN_ALTAR_TILES` 30, `RARE_ZONE_EDGE_TILES` 2, `RARE_ZONE_ASH_CLEARANCE_TILES` 3, `RARE_ZONE_MIN_OPEN_PCT` 85, `RareZone.site_ok` | 지상에 하나, 시드로. 위 "M11b" | game-concept §12 "컬렉션은 아처 구역 1개". 크기·거리·규칙은 문서에 없음 |
@@ -3918,6 +3939,8 @@ func run() -> Array[String]:
 | ~~M11a 생물 그림~~ (**M11 생물 그림에서 바뀜**, 아래 셋) | ~~`CreatureView.MAPS`·`STEPS`·`PALETTE`·`texture`·`frame_size`~~, `image`·`picture_offset`, `BAR_HEIGHT` 2·`BAR_GAP` 2·`MARK_GAP` 6 | ~~글자 지도 → 캐시한 텍스처~~, 그림 아래 가운데 = 발(그대로). 막대·표시 값 그대로 | 상인 때처럼 자리 표시를 한 클래스에 모아 값싸게 교체 |
 | M11 생물 그림 시트 | `CreatureView.CELLS`(토끼 24×24, 사슴 40×36, 여우 36×24, 은빛 사슴 44×44, 올빼미 16×24)·`ROTATIONS`·`WALKS`·`ROTATION_CELLS` 4·`region`·`sheet`·`height_of`·`icon`, `CreatureSim.WALK_FRAMES` 6·`STAND` -1 | 몸 = 가져온 시트의 `Sprite2D` 영역(걷는 동안 텍스처를 읽지 않음). 서 있음 = rotations 칸, 걷기 = walk 6프레임, 서 = 동 반전(Rig). 시트는 한 번 Image로 읽어 막대 높이·시체·CPU 그림에. 막대는 종류의 가장 큰 칸 위(종류마다 하나, 돌아도 안 움직임) | art 단계가 정한 칸 배치 그대로(`assets/concept/03-pixel/prompts.md` "PixelLab 16차"). 상인의 `_head_tops`처럼 한 번만 읽음 |
 | M11 생물 그림 시체 | `CreatureView.corpse_image`·`corpse_texture`·`corpse_offset` | 남쪽 서 있는 그림을 시계 방향 4분의 1(옆으로 누움, 머리 동쪽, 서쪽은 반전), 그린 것만 잘라 아래 가운데 = 발 | M11a의 뒤집기는 시트에서 물구나무·뿔로 선 모습이었다(위 "M11 생물 그림") |
+| M11 생물 그림 시체 정렬 (검토 반영) | `CreatureView.CORPSE_SORT_PX` 1·`corpse_sort_y` | 시체의 노드(y 정렬 자리) = 발 칸의 아래 변 + 1px, 그림은 발에 그대로. 킬의 드롭(그 칸의 아래 변, `ItemView`) 위에 눕는다 | 전에는 45틱 내내 드롭 아이콘이 시체를 덮었다. 같은 칸 줄의 남쪽 사람은 그동안 시체 뒤(알려진 문제 11) |
+| M11 생물 그림 미리 읽기 (검토 반영) | `CreatureView.warm`, `CombatView.setup` | 무리 있는 맵에 놓일 때 시트를 Image로 읽는다 | 첫 생물이 나오는 프레임이 창 빌드에서 2~27ms 멈추던 것 |
 | M11 생물 그림 컬렉션 칸 | `CollectionPanel.CELL` 30 → 40 | 가장 큰 생물 그림(은빛 사슴의 동쪽 서 있음 37×36)이 칸의 테 안에 든다. 창 174×127 | `test_collection.gd`의 "그림이 칸에 든다"(30이면 사슴·은빛 사슴이 넘침) |
 | M11a 봇·시험 플래그 | `NetBot` `aimprey`·`hunt`·`waitprey`·`creature`, `NetBot.prey`·`Aiming.PREY`, `NetBot.Action.creature`·`creature_cell`, `--test-creature`(`CliOptions.TEST_CREATURES_MAX` 16, `CREATURE_TEST_RING_PX` 104, `Creatures.spot_near`, `Main.put_test_creatures`), `--test-no-creatures` | 위 "명령줄 인자" | 스크린샷과 시험 |
 | M11a 그림 검사 `creatures` | `tools/check_render.gd` | 위 "그림 검사" | 코드 그림이 지도의 글자 그대로 그려지는지 |
@@ -3988,6 +4011,24 @@ func run() -> Array[String]:
 | `creatures/{hare,deer,lamp_fox,silver_stag,ash_owl}_v02_{rotations,walk}.png` (M11 생물 그림) | `03-pixel/` (생물 다섯의 서 있음 4칸(남·동·북·서) 한 줄과 걷기 6프레임 × 남·동·북, 종류마다 칸 하나(4의 배수), 발 = 맨 아래 줄. PixelLab 16차 standard 모드 + 손질 v02(`tools/art/creatures.py`: 사슴 덩어리, 올빼미 북쪽 뒷모습·붉은 눈, 은빛 사슴 외곽선, 발·가로 맞춤). 채택 후보) |
 
 ## 측정 (이 데스크탑, `.godot/`을 지운 상태에서)
+
+M11 생물 그림 검토 (2026-11-08, 같은 브랜치, `art/m11-creatures` f5519cf를 머지한 위. 이 기기에서 다른 일(WSL 가상 머신 약 12코어, 게임 약 4코어)이 내내 돌아 전체 테스트가 평소보다 15~20% 느렸다):
+
+| 단계 | 결과 |
+|---|---|
+| `git merge origin/main` | 이미 최신(main 1d358fa 그대로) |
+| 바꾼 시험만 | `creatures,actors,collection,capture,hunting,net_wild` 6파일 통과, 5,660 checks(`test_creatures.gd` 1,658, `test_net_wild.gd` 511) |
+| 일부러 깨 보기 (게임의 사본에서) | 고친 것을 되돌리는 변이 8개 모두 잡힘: 생물 시계를 0으로(`test_creatures.gd`·`test_net_wild.gd`, 창 `wild_net` 548픽셀), `poisoned()`·`stunned()`·거부 ×에서 `alive()` 빼기, `MARK_GAP` 0, `centered`, 걷는 동안 번쩍임 꺼짐, 시체 정렬 자리 되돌리기 |
+| 전체 테스트 A (작업 트리 그대로, 기본 파일 제한 120초) | 57파일 통과, `test_net_session.gd`만 파일 제한 120초를 넘겨 멈춤(500 checks까지, 결과 파일이 덜 써져 JSON 오류 셋). 47,965 checks, 1,126초. 그 뒤 `net_session`만 `--timeout=300`으로 두 번: 한 번 `stall/c2: prediction was reconciled (0.0)`(검토가 main에서도 재현한 타이밍 흔들림), 한 번 통과(620 checks, 108.6초) |
+| 임포트 (`.godot/` 지운 뒤 두 번) | 둘 다 종료 0, 오류 줄 0, 새 파일 없음 |
+| 전체 테스트 B (`.godot/`을 지우고 다시 임포트한 뒤, `--timeout=300`) | 57파일 통과, `test_net_session.gd`만 `stall/c2: prediction was reconciled (4.0)`(같은 흔들림). 48,085 checks, 1,065초. 코드는 A와 같다(`game/**/*.gd` sha256 같음) |
+| 전체 테스트 C (같은 코드, `--timeout=300`) | **58파일 모두 통과·0 실패**, 48,085 checks, 979초(`net_session` 105.9초, 620 checks). 오류 묶음은 일부러 낸 8개뿐(B도 8개, A는 멈춘 `net_session`의 JSON 오류 셋이 더 있음). checks +34 = `test_creatures.gd` 1,626 → 1,658, `test_net_wild.gd` 509 → 511 |
+| 그림 검사 (창, 전체) | 41부분 모두 ok, `failed_parts=0`. `creatures`: screens=140 bad=0 drawn=586 corpse_wrong=0 flash=0/398 bar_wrong=0 mark_wrong=0 dusk=398/398. `capture_marks`·`collection_panel` 같은 숫자. `wild_net`: creatures=12 drawn=3719 mismatches=0 bytes=125 |
+| 내보내기 | Windows Desktop, Windows ARM64 둘 다 종료 0, 오류 줄 0 |
+| 내보낸 exe `--smoke` | 종료 0. 위 M11 생물 그림의 줄과 필드 69개 중 `enet_port`만 다르다(골든 해시 셋, `net=v13`, `checks=508` 그대로) |
+| 내보낸 exe의 그림 (창) | `m11_art_hunt.png`·`m11_art_zone.png`가 커밋한 것과 바이트까지 같다. 85프레임의 토끼 시체도 에디터와 같은 자리에 드롭 위로(화살·아처 41픽셀 말고 같음) |
+| 첫 `CreatureView` (창, 미리 읽기 없이) | 첫 생성 2.4~26.8ms(세 번), 둘째 14~21µs. 머리 없음 2.4ms |
+| art 손질 다시 돌리기 | `--script`와 `--with ... python -I` 두 번, 결과 12개 md5가 커밋한 것과 같고 로그도 같다 |
 
 M11 생물 그림 (2026-11-08, 브랜치 `feat/m11-creature-art`, `art/m11-creatures` 4a1104c 위):
 
